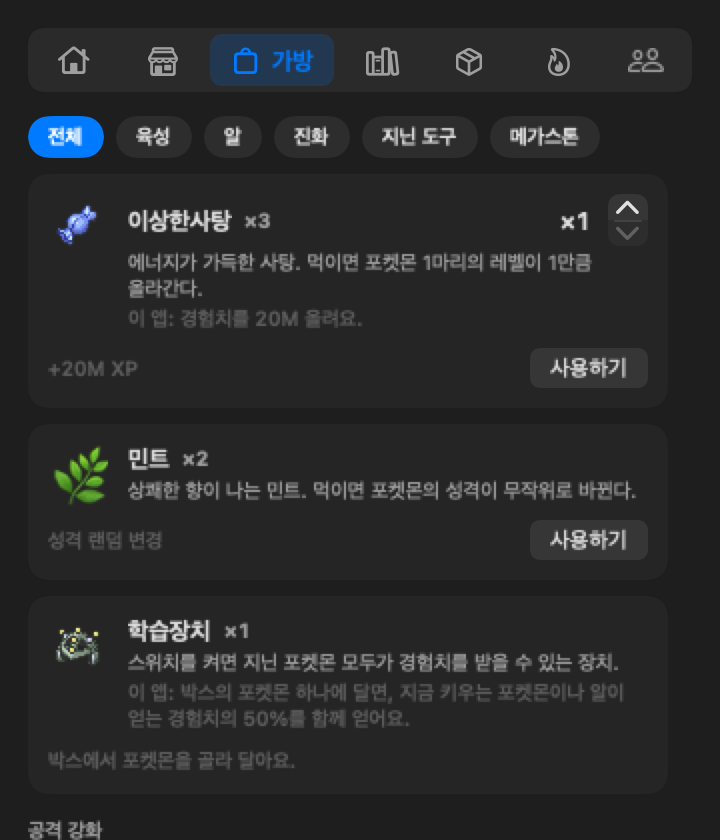
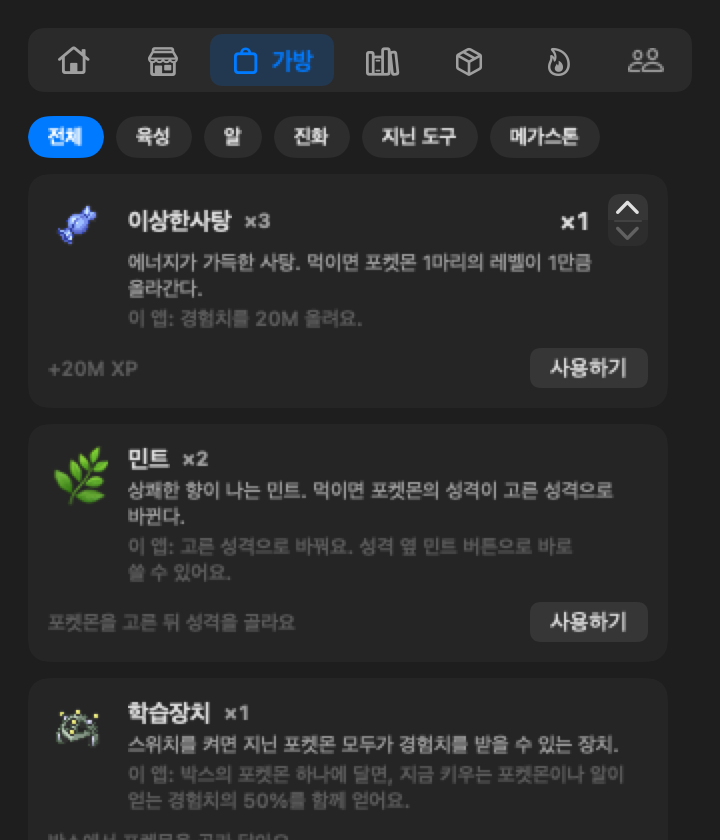
docs: add a README image of the Mint nature chart and training items, and redraw the Shop, Bag and Home images
The release gate asks for a new README image for the training-items feat. ReadmeScreenshotTests now draws an Onix's Box page with the nature chart open, the Ability Capsule, Patch and Gold Bottle Cap, and a Bottle Cap on each IV. The README sample owns those items and gives Onix a nature and its abilities. SCREENS maps NaturePicker, BoxTrainingControls, BoxDetailView and PokemonDetailParts to that image. The READMEs no longer say the Mint re-rolls the nature.

Changed region(s): [[0.0306, 0.5571, 0.8861, 1.0]]

diff --git a/Tests/PokeTokenBarTests/ReadmeScreenshotTests.swift b/Tests/PokeTokenBarTests/ReadmeScreenshotTests.swift
@@ -60,9 +60,13 @@ final class ReadmeScreenshotTests: XCTestCase {
         }
 
         let home = try await sampleUsage(defaults: defaults)
+        for name in ReadmeAbilityNames.table.keys {
+            _ = await PokemonNameDisplayStore.shared.load(.init(kind: .ability, name: name), provider: ReadmeAbilityNames())
+        }
 
         for (language, suffix) in languages {
-            let (store, cleanup) = try BoxDexFixture.makeStore(language: language, mutate: Self.sample, defaults: defaults)
+            let (store, cleanup) = try BoxDexFixture.makeStore(language: language, mutate: Self.sample, defaults: defaults,
+                                                               provider: ReadmeAbilityProvider())
             defer { cleanup() }
             for id in Self.species { await store.loadPokemonDetails(speciesID: id) }
             store.update(todayTokensByProvider: ["claude_code": 0], todayDate: "d1", monthTotal: 0, burnTier: .idle,
@@ -94,6 +98,7 @@ final class ReadmeScreenshotTests: XCTestCase {
             try await shot(popover { $0.tab = .box }, "screenshot-collection-box\(suffix)", in: dir, height: 420)
             try await shot(popover { $0.openBoxDetail(id: BoxDexFixture.charizardID) },
                            "screenshot-pokemon-profile\(suffix)", in: dir, height: 560)
+            try await shot(try naturePicker(store: store), "screenshot-nature-picker\(suffix)", in: dir, height: 1120)
             try await shot(statusMoves(store: store, uploader: uploader, entry: entry),
                            "screenshot-status-moves\(suffix)", in: dir, height: nil)
             try await shot(moveOrder(store: store, uploader: uploader, entry: entry),
@@ -152,6 +157,12 @@ final class ReadmeScreenshotTests: XCTestCase {
         state.inventory[ItemKind.expShare.rawValue] = 1
         state.inventory["shiny-egg:150"] = 1
         state.inventory[ItemKind.punchingGlove.rawValue] = 1
+        for kind in [ItemKind.abilityCapsule, .abilityPatch, .bottleCap, .goldBottleCap] {
+            state.inventory[kind.rawValue] = 1
+        }
+        if let onix = state.dex.firstIndex(where: { $0.id == BoxDexFixture.onixID }) {
+            state.dex[onix].nature = .lonely
+        }
         state.expShareHolders = [BoxDexFixture.pikachuID]
         state.friendEntryIDs = [BoxDexFixture.charizardID]
         StoredFriendScreenshotTests.addBulbasaur(&state)
@@ -286,6 +297,16 @@ final class ReadmeScreenshotTests: XCTestCase {
      {"id":86,"name":"전기자석파","type":"electric","power":0,"damage_class":"status","accuracy":90,"level":0,"pp":20,"source":"machine","ailment":"paralysis","ailment_chance":0}
     ]}
     """
+
+    /// Onix's Box page with the Mint's nature chart open and the training items under its ability.
+    private func naturePicker(store: CompanionStore) throws -> some View {
+        let onix = try XCTUnwrap(store.boxIndividual(id: BoxDexFixture.onixID))
+        let nav = PopoverNavigation()
+        nav.openBoxDetail(id: BoxDexFixture.onixID, naturePicker: true)
+        return BoxDetailView(store: store, individual: onix, navigation: nav, onBack: {})
+            .environment(store)
+            .padding(PopoverMetrics.padding)
+    }
 
     /// Charizard's moves on its Box page with the picker open on the Swords Dance slot.
     private func statusMoves(store: CompanionStore, uploader: PartyUploader, entry: BattleEntryStore) throws -> some View {
@@ -436,7 +457,28 @@ final class ReadmeScreenshotTests: XCTestCase {
     }
 }
 
-private struct MunchlaxLineProvider: PokeProviding, SpeciesIndexProviding, PokemonDetailProviding {
+/// The Box fixture with Onix's abilities, so the Ability Capsule and Patch have something to switch.
+private struct ReadmeAbilityProvider: PokeProviding, PokemonDetailProviding {
+    func line(baseSpeciesID: Int) async throws -> EvoLine { try await BoxDexProvider().line(baseSpeciesID: baseSpeciesID) }
+    func baseSpeciesIndex() async throws -> [BaseSpecies] { [] }
+    func baseSpecies(id: Int) async throws -> BaseSpecies? { nil }
+    func pokemonDetails(speciesID: Int) async throws -> PokemonDetails {
+        try SpeciesFacts.details(speciesID, abilities: speciesID == 95 ? TrainingAbilities.byID[95] ?? [] : [])
+    }
+}
+
+private struct ReadmeAbilityNames: PokemonNameProviding {
+    static let table: [String: [String: String]] = [
+        "rock-head": ["en": "Rock Head", "ko": "돌머리", "ja": "いしあたま"],
+        "sturdy": ["en": "Sturdy", "ko": "옹골참", "ja": "がんじょう"],
+        "weak-armor": ["en": "Weak Armor", "ko": "깨어진갑옷", "ja": "くだけるよろい"],
+    ]
+    func names(for resource: PokemonNameResource) async throws -> [String: String] {
+        try XCTUnwrap(Self.table[resource.name])
+    }
+}
+
+private struct MunchlaxLineProvider:PokeProviding, SpeciesIndexProviding, PokemonDetailProviding {
     func line(baseSpeciesID: Int) async throws -> EvoLine {
         EvoLine(baseID: 446, tree: EvoNode(speciesID: 446, children: [EvoNode(speciesID: 143, children: [])]),
                 rarity: .rare, names: [446: try SpeciesFacts.names(446), 143: try SpeciesFacts.names(143)])

diff --git a/Tests/PokeTokenBarTests/BoxDexFixture.swift b/Tests/PokeTokenBarTests/BoxDexFixture.swift
@@ -63,13 +63,14 @@ enum BoxDexFixture {
 
     @MainActor
     static func makeStore(language: AppLanguage = .ko, mutate: (inout CompanionState) -> Void = { _ in },
-                          defaults: UserDefaults? = nil) throws -> (CompanionStore, cleanup: () -> Void) {
+                          defaults: UserDefaults? = nil,
+                          provider: any PokeProviding = BoxDexProvider()) throws -> (CompanionStore, cleanup: () -> Void) {
         let file = FileManager.default.temporaryDirectory.appendingPathComponent("box-dex-\(UUID()).json")
         var state = state(language: language)
         mutate(&state)
         try JSONEncoder().encode(state).write(to: file)
-        let store = defaults.map { CompanionStore(provider: BoxDexProvider(), fileURL: file, defaults: $0) }
-            ?? CompanionStore(provider: BoxDexProvider(), fileURL: file)
+        let store = defaults.map { CompanionStore(provider: provider, fileURL: file, defaults: $0) }
+            ?? CompanionStore(provider: provider, fileURL: file)
         return (store, { try? FileManager.default.removeItem(at: file) })
     }
 

diff --git a/scripts/release-asset-gate.py b/scripts/release-asset-gate.py
@@ -32,8 +32,10 @@ SCREENS = (
     ("HeldItemSections.swift", ("screenshot-held-items",)),
     ("BoxView.swift", ("screenshot-collection-box",)),
     ("BoxFilterPanel.swift", ("screenshot-collection-box",)),
-    ("BoxDetailView.swift", ("screenshot-pokemon-profile", "screenshot-exp-share")),
-    ("PokemonDetailParts.swift", ("screenshot-pokemon-profile",)),
+    ("BoxDetailView.swift", ("screenshot-pokemon-profile", "screenshot-exp-share", "screenshot-nature-picker")),
+    ("PokemonDetailParts.swift", ("screenshot-pokemon-profile", "screenshot-nature-picker")),
+    ("NaturePicker.swift", ("screenshot-nature-picker",)),
+    ("BoxTrainingControls.swift", ("screenshot-nature-picker",)),
     ("MoveTrainingSection.swift", ("screenshot-pokemon-profile", "screenshot-move-order", "screenshot-status-moves")),
     ("ExpShareSlot.swift", ("screenshot-exp-share",)),
     ("GymReplayView.swift", ("screenshot-gym-replay",)),

diff --git a/README.md b/README.md
@@ -43,7 +43,7 @@ PokeTokenBar turns the AI coding tokens you're already burning — Claude Code, 
 3. ⚡ **Evolve.** Keep coding and it grows through its actual evolution tree (1/2/3 stages, branching), with a little flash celebration at each step. Unusual evolutions (Inkay's upside-down flip, Tyrogue's three branches, friendship evolutions like Pikachu, …) are translated into conditions the app can check; the Pokédex detail shows the original condition and the app condition, and a Pokémon's own detail in the Box shows its progress. Day and night alternate every 10 minutes on the wall clock (day :00–:09, night :10–:19, day :20–:29, …) instead of following the real sun, and the condition shows "Day now · night in 7 min". Home shows a small sun-and-moon dial with the current period and the minutes to the switch. If a Pokémon is ready to evolve but a condition is unmet, you get one notification per blocking reason pointing you to the Pokédex.
 4. 🎓 **Graduate & collect.** Final form + threshold permanently archives it in your **Pokédex** — rarer takes longer (≈3 days Normal → ≈24 days Legendary at heavy use) — and a fresh egg arrives.
 5. 🍬 **Max out, get a candy.** Fill a 5-hour or weekly usage limit and you earn **Rare Candy** — spend it from the **Bag** to grow your current Pokémon.
-6. 🛒 **Spend at the Shop.** Every token you've used is spendable currency — buy **Rare Candy**, a **Mint** that re-rolls your Pokémon's nature, a **Shiny Charm** that permanently raises your shiny odds, or an egg to send off your current companion and start over. Eggs come in three grades: a plain **Pokémon Egg**, a **Rare Egg** guaranteed to hatch Rare or better, and an **Epic Egg** guaranteed to hatch Epic or better. A **Scout Ticket** for each region (or all of them) shows 10 random Pokémon from it so you can pick the egg you want.
+6. 🛒 **Spend at the Shop.** Every token you've used is spendable currency — buy **Rare Candy**, a **Mint** that sets your Pokémon's nature to the one you pick, a **Shiny Charm** that permanently raises your shiny odds, or an egg to send off your current companion and start over. Eggs come in three grades: a plain **Pokémon Egg**, a **Rare Egg** guaranteed to hatch Rare or better, and an **Epic Egg** guaranteed to hatch Epic or better. A **Scout Ticket** for each region (or all of them) shows 10 random Pokémon from it so you can pick the egg you want.
 7. 🔁 **Trade with coworkers.** Swap graduated Pokémon with a linked coworker from the Friends tab (the other side accepts in Slack), or send a graduated Pokémon straight from its Box detail. Pokémon that evolve by trade, like Haunter or Kadabra, now stop there until they're traded — or until you use a **Linking Cord** from the Shop on one in your Box. Trade evolutions that also need a held item (Onix with Metal Coat, Seadra with Dragon Scale, …) need that item equipped on the Pokémon first, in its Box detail; Karrablast and Shelmet evolve when traded for each other, or with a Linking Cord while the other one is your friend.
 
 ## Tour
@@ -126,7 +126,7 @@ Max out a 5-hour or weekly usage limit and you're handed a <b>Rare Candy</b> —
 <td width="45%" align="center"><img src="assets/screenshot-shop.png" width="300" alt="Token Shop — Mint, Rare Candy, Pokémon Egg, Rare Egg, Shiny Charm, Epic Egg"></td>
 <td width="55%" valign="middle">
 <h3>🛒 A shop that runs on your usage</h3>
-The tokens you've already used are your currency. Buy several consumables at once with a quantity selector and total-price preview: <b>Rare Candy</b> grows your Pokémon, and a <b>Mint</b> re-rolls its nature. A <b>Shiny Charm</b> permanently raises your shiny hatch odds. Eggs send off your companion and start over: a plain <b>Pokémon Egg</b>, a <b>Rare Egg</b> guaranteed to hatch Rare or better, or an <b>Epic Egg</b> guaranteed to hatch Epic or better. Legendaries stay in both graded pools. An empty Bag links straight to the Shop.
+The tokens you've already used are your currency. Buy several consumables at once with a quantity selector and total-price preview: <b>Rare Candy</b> grows your Pokémon, and a <b>Mint</b> changes its nature to the one you pick. A <b>Shiny Charm</b> permanently raises your shiny hatch odds. Eggs send off your companion and start over: a plain <b>Pokémon Egg</b>, a <b>Rare Egg</b> guaranteed to hatch Rare or better, or an <b>Epic Egg</b> guaranteed to hatch Epic or better. Legendaries stay in both graded pools. An empty Bag links straight to the Shop.
 </td>
 </tr>
 <tr>
@@ -190,6 +190,15 @@ An Exp. Share can also move between Pokémon: <b>Move here</b> on a Box page pic
 <h3>🤝 Box Pokémon walk with you too</h3>
 A Pokémon waiting in the Box can be a friend, not only a graduate. The picker marks it <b>Stored</b>. It walks beside your Pokémon on Home and with the floating pet in its current form, and it leaves the friend list when you raise it again. When a Pokémon Egg or a scout sends your Pokémon to the Box while a friend slot is free, it joins as a friend.
 </td>
+</tr>
+<tr>
+<td width="55%" valign="middle">
+<h3>🧪 Ability, nature, IVs and form, like a trainer's team</h3>
+What a gym trainer's team can field, yours can too. The <b>Mint</b> no longer re-rolls: <b>Change</b> next to the nature on Home or a Box page opens a 5×5 chart. Rows raise a stat, columns lower one, and the neutral natures sit on the diagonal. Pick a nature and confirm; with no Mint in the Bag, the confirm buys one and uses it.
+<br><br>
+The Shop's Growth tab adds the <b>Ability Capsule</b> (the other regular ability), the <b>Ability Patch</b> (regular ↔ hidden ability), the <b>Bottle Cap</b> (one IV to 31) and the <b>Gold Bottle Cap</b> (all six IVs). Three key items switch forms and are never used up: the <b>Reveal Glass</b> (Incarnate ↔ Therian), the <b>DNA Splicers</b> (Kyurem) and the <b>Reins of Unity</b> (Calyrex). A form brings its own types, ability and stats to your battles.
+</td>
+<td width="45%" align="center"><img src="assets/screenshot-nature-picker.png" width="300" alt="An Onix's Box page with the 5×5 nature chart open, the Ability Capsule, Ability Patch and Gold Bottle Cap, and a Bottle Cap on each IV"></td>
 </tr>
 <tr>
 <td width="45%" align="center"><img src="assets/screenshot-battle.png" width="300" alt="Battle tab — an entry of up to six Pokémon in fighting order"><br><br><img src="assets/screenshot-gyms.png" width="300" alt="Gym leaders, Elite Four, hideout and the badge case"></td>
